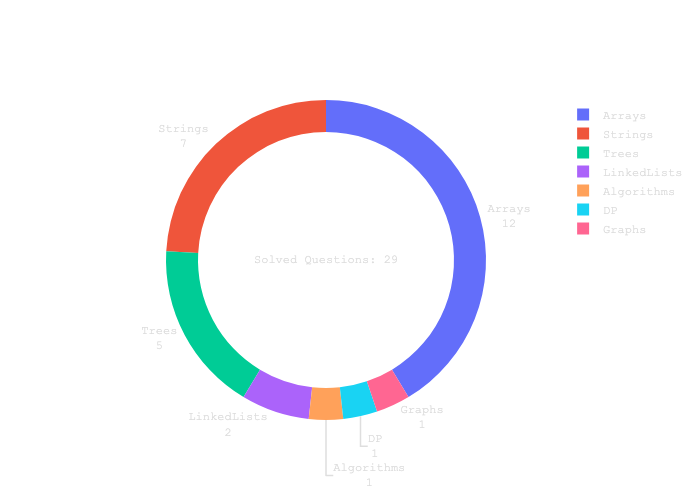
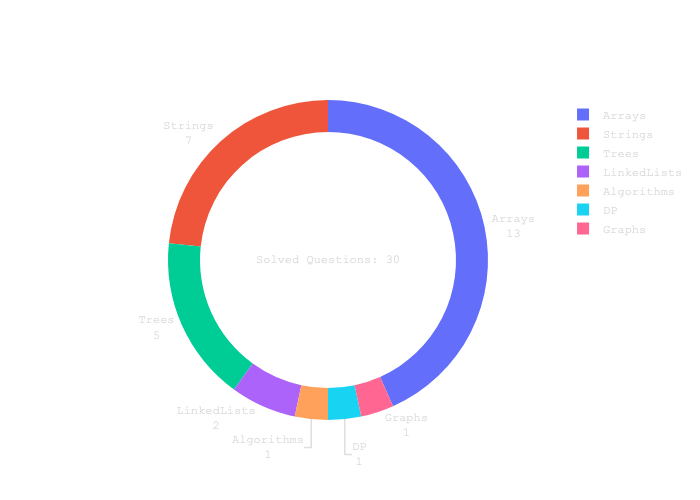
reverse polish notation eval

diff --git a/Arrays/evalReversePolish.py b/Arrays/evalReversePolish.py
@@ -1,0 +1,24 @@
+from typing import List
+
+
+def evalRPN(tokens: List[str]) -> int:
+    stack = []
+    for token in tokens:
+        if token not in "*/+-":
+            stack.append(token)
+        else:
+            two = int(stack.pop())
+            one = int(stack.pop())
+            if token == "+":
+                stack.append(one + two)
+            elif token == "-":
+                stack.append(one - two)
+            elif token == "*":
+                stack.append(one * two)
+            else:
+                stack.append(int(one / two))
+    return int(stack[0])
+
+
+print(evalRPN(["2", "1", "+", "3", "*"]))
+print(evalRPN(["10", "6", "9", "3", "+", "-11", "*", "/", "*", "17", "+", "5", "+"]))
